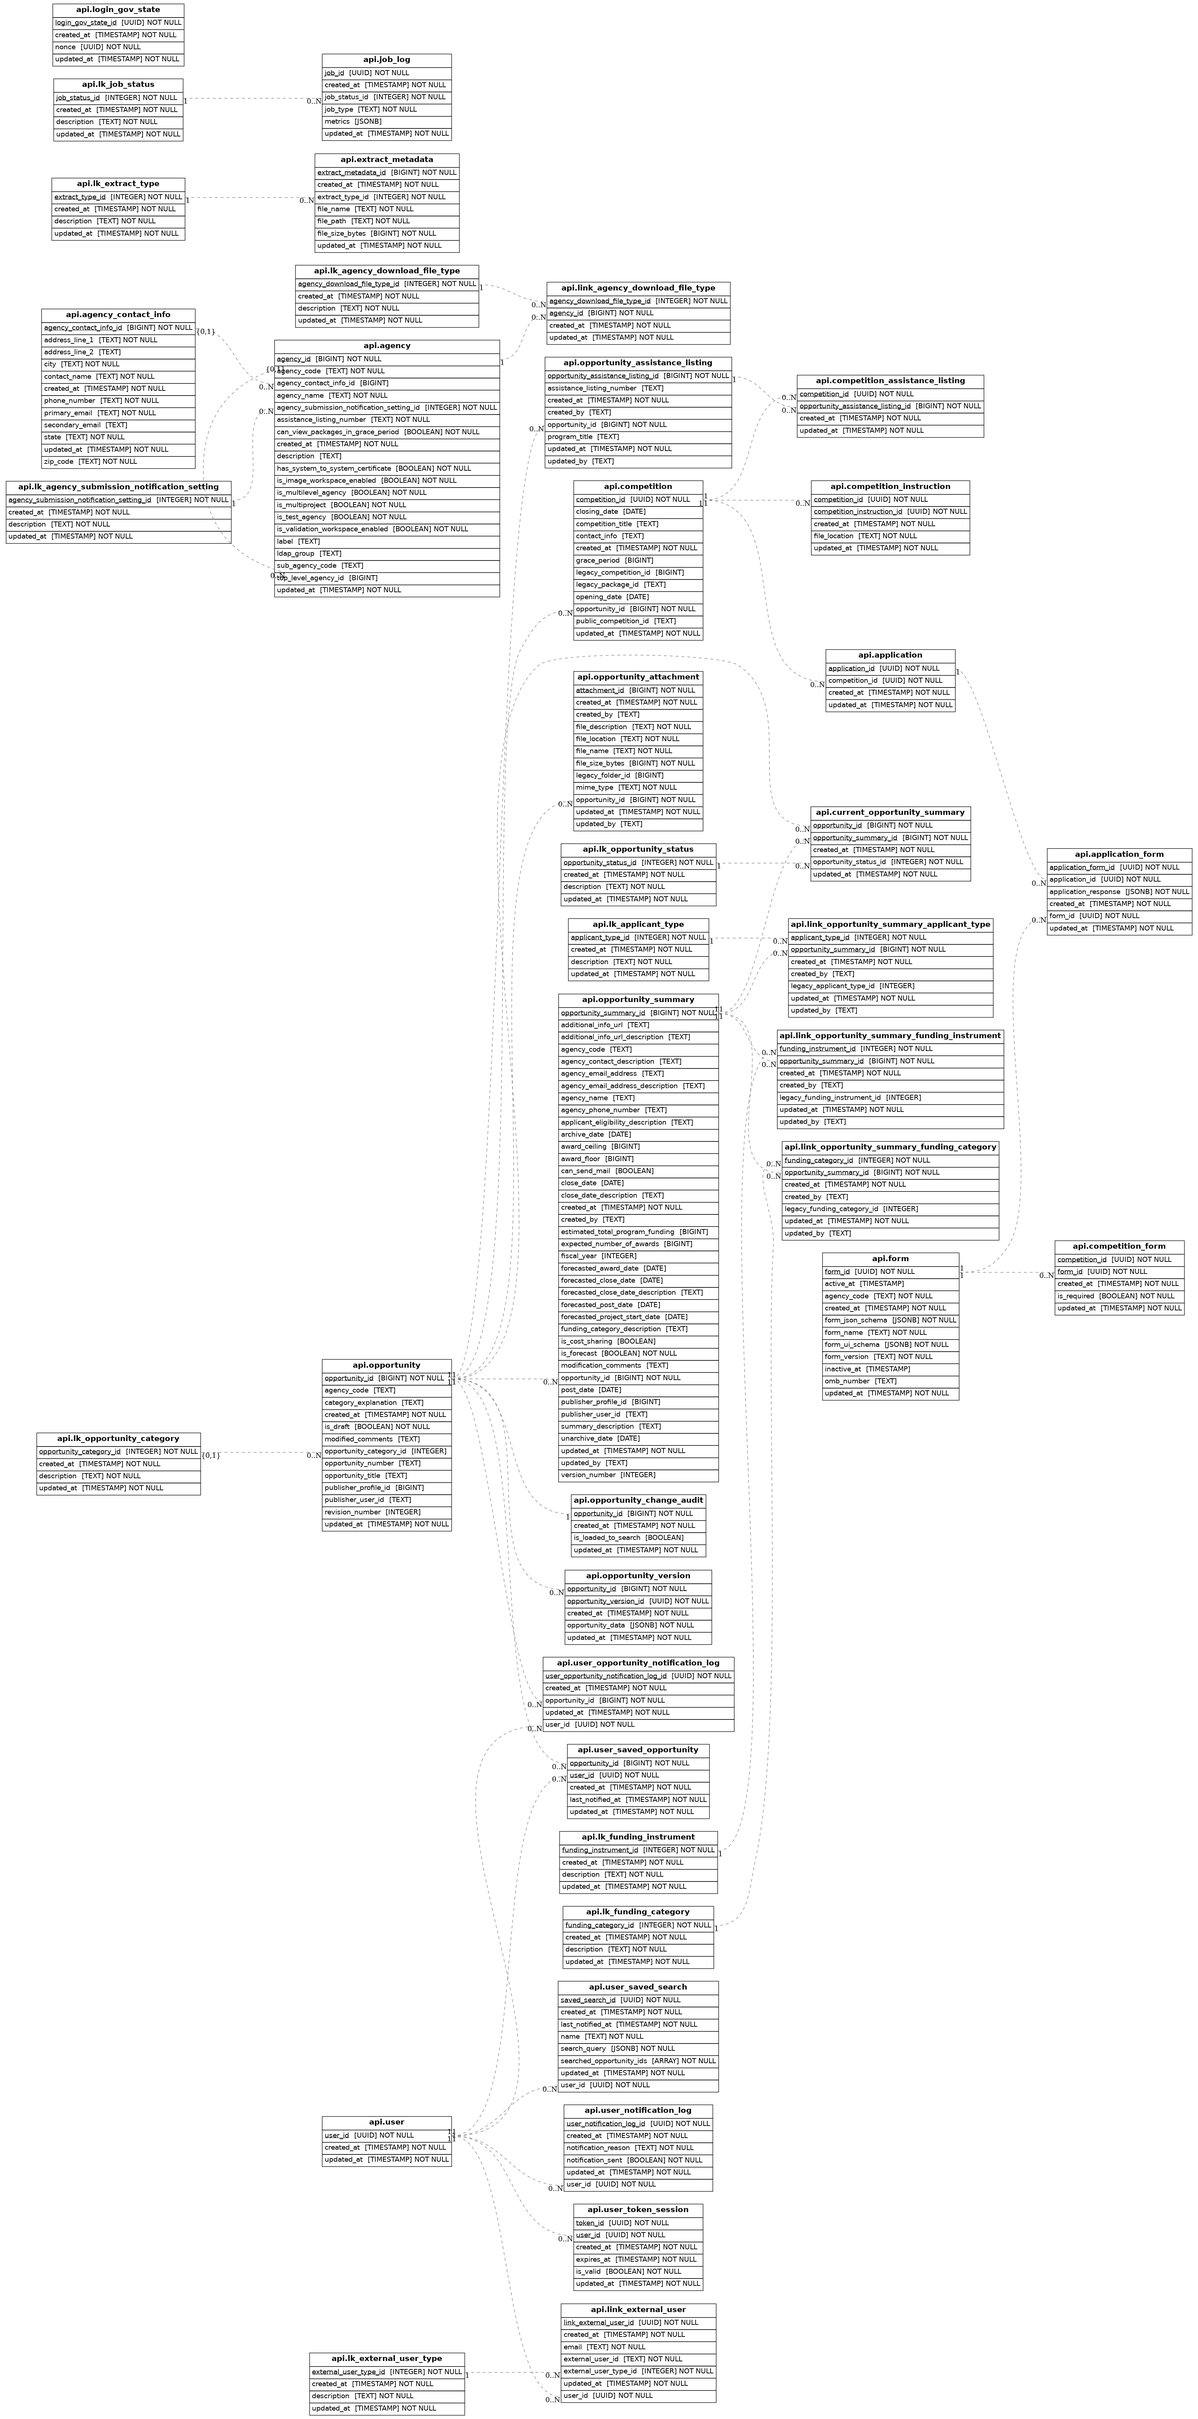
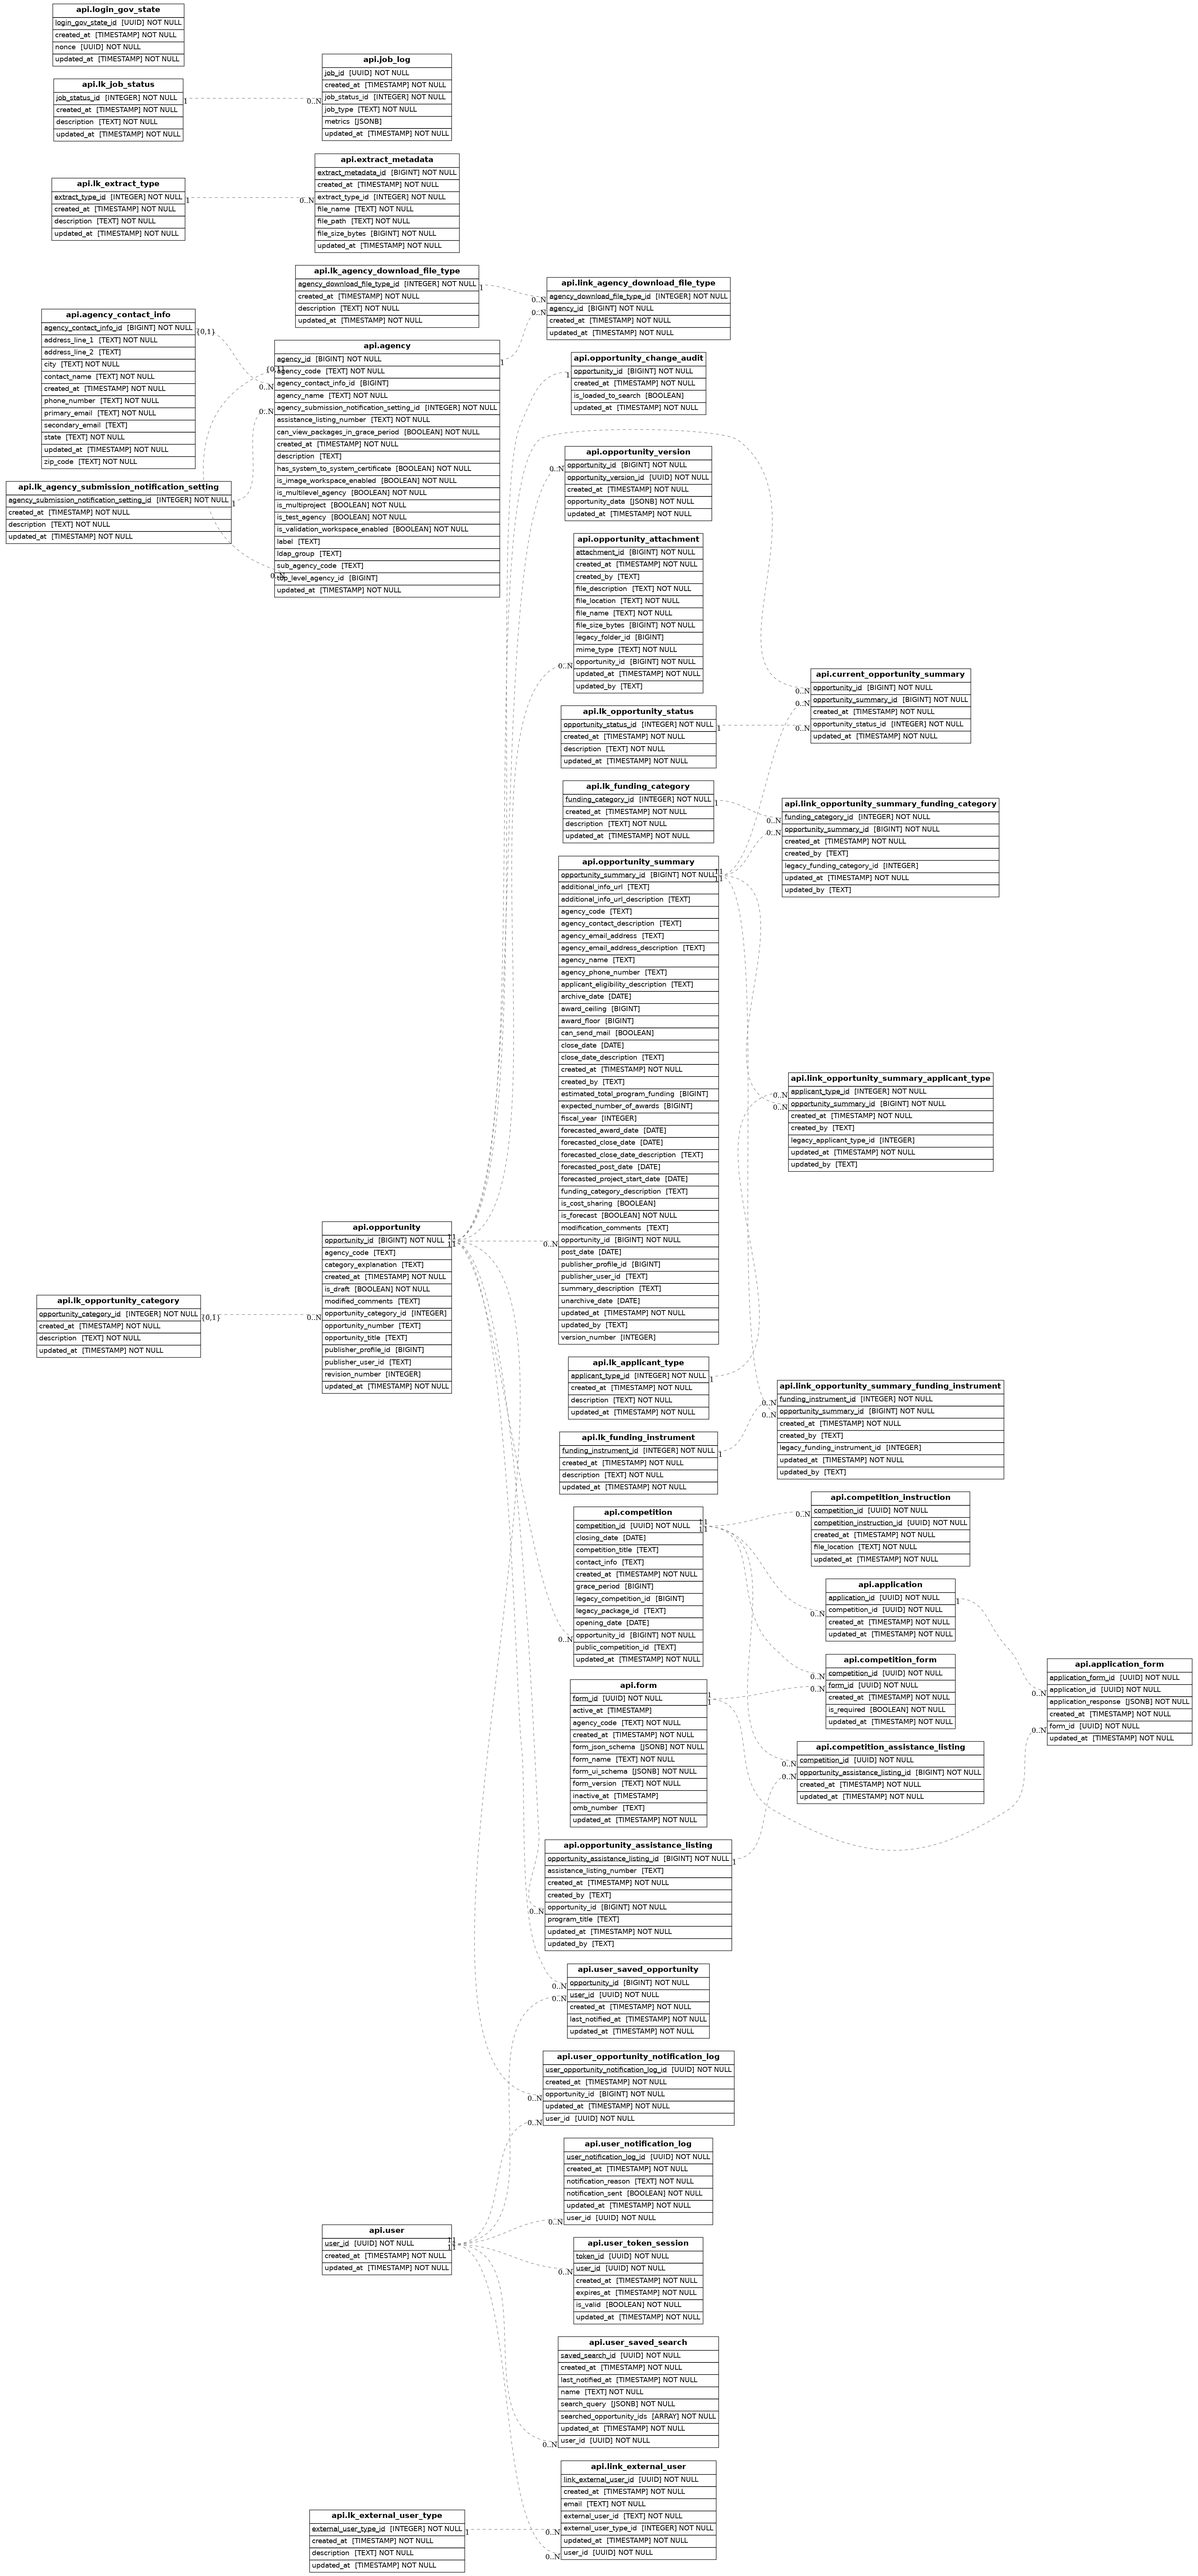
[Issue #4177] Add GET /competitions endpoint (#4198)
## Summary
Fixes #4177

### Time to review: __5 mins__

## Changes proposed
Adds a GET /competition endpoint

## Context for reviewers
This endpoint partially reuses the schema for forms as a competition has
a set of forms. Note that forms are stored in a way that makes us need
to structure the response object a bit oddly. Forms are their own thing,
but for each competition, we need to mark whether the form is required
or not - this value is stored separately from the forms as it is
competition-dependent.

## Additional information

You can setup a competition by running `make console` and then doing
`f.CompetitionFactory()`

Example response locally:
<img width="596" alt="Screenshot 2025-03-17 at 1 09 09 PM"
src="https://github.com/user-attachments/assets/de6b7338-5d41-4872-bf60-c000d137b9a9"
/>

Logs:
<img width="1439" alt="Screenshot 2025-03-17 at 1 10 08 PM"
src="https://github.com/user-attachments/assets/ea205575-1177-443f-a554-1600663fed8c"
/>

---------

diff --git a/api/tests/src/search/backend/test_load_opportunities_to_index.py b/api/tests/src/search/backend/test_load_opportunities_to_index.py
@@ -1,6 +1,7 @@
 import itertools
 import math
-from datetime import datetime, timedelta
+import uuid
+from datetime import timedelta
 
 import freezegun
 import pytest
@@ -221,9 +222,7 @@ class TestLoadOpportunitiesToIndexPartialRefresh(BaseTestClass):
         load_opportunities_to_index,
     ):
 
-        index_name = "partial-refresh-index-" + get_now_us_eastern_datetime().strftime(
-            "%Y-%m-%d_%H-%M-%S"
-        )
+        index_name = f"partial-refresh-index-{uuid.uuid4().int}"
         search_client.create_index(index_name)
         search_client.swap_alias_index(
             index_name,
@@ -380,15 +379,14 @@ class TestLoadOpportunitiesToIndexPartialRefresh(BaseTestClass):
         )
         assert len(remaining_queue) == 1
 
-    @freezegun.freeze_time(datetime.now() + timedelta(hours=2), tz_offset=0)
+    @freezegun.freeze_time(get_now_us_eastern_datetime() + timedelta(days=2), tz_offset=0)
     def test_batch_process_exceed_time_limit(
         self, db_session, search_client, load_opportunities_to_index, enable_factory_create
     ):
         OpportunityChangeAuditFactory.create()
 
-        index_name = "partial-refresh-index-" + get_now_us_eastern_datetime().strftime(
-            "%Y-%m-%d_%H-%M-%S"
-        )
+        index_name = f"partial-refresh-index-{uuid.uuid4().int}"
+
         search_client.create_index(index_name)
         search_client.swap_alias_index(
             index_name,

diff --git a/api/tests/src/api/competition_alpha/test_competition_route_get.py b/api/tests/src/api/competition_alpha/test_competition_route_get.py
@@ -1,0 +1,39 @@
+import uuid
+
+from tests.src.db.models.factories import CompetitionFactory
+
+
+def test_competition_get_200(client, api_auth_token, enable_factory_create):
+    competition = CompetitionFactory.create()
+
+    resp = client.get(
+        f"/alpha/competitions/{competition.competition_id}", headers={"X-Auth": api_auth_token}
+    )
+
+    assert resp.status_code == 200
+    response_competition = resp.get_json()["data"]
+
+    assert response_competition["competition_id"] == str(competition.competition_id)
+    assert response_competition["opportunity_id"] == competition.opportunity_id
+
+
+def test_competition_get_404_not_found(client, api_auth_token):
+    competition_id = uuid.uuid4()
+    resp = client.get(f"/alpha/competitions/{competition_id}", headers={"X-Auth": api_auth_token})
+
+    assert resp.status_code == 404
+    assert resp.get_json()["message"] == f"Could not find Competition with ID {competition_id}"
+
+
+def test_competition_get_401_unauthorized(client, api_auth_token, enable_factory_create):
+    competition = CompetitionFactory.create()
+
+    resp = client.get(
+        f"/alpha/competitions/{competition.competition_id}", headers={"X-Auth": "some-other-token"}
+    )
+
+    assert resp.status_code == 401
+    assert (
+        resp.get_json()["message"]
+        == "The server could not verify that you are authorized to access the URL requested"
+    )

diff --git a/api/src/db/models/competition_models.py b/api/src/db/models/competition_models.py
@@ -28,6 +28,14 @@ class Competition(ApiSchemaTable, TimestampMixin):
     grace_period: Mapped[int | None] = mapped_column(BigInteger)
     contact_info: Mapped[str | None]
 
+    competition_forms: Mapped[list["CompetitionForm"]] = relationship(
+        "CompetitionForm", uselist=True, back_populates="competition", cascade="all, delete-orphan"
+    )
+
+    applications: Mapped[list["Application"]] = relationship(
+        "Application", uselist=True, back_populates="competition", cascade="all, delete-orphan"
+    )
+
 
 class CompetitionInstruction(ApiSchemaTable, TimestampMixin):
     __tablename__ = "competition_instruction"
@@ -78,9 +86,14 @@ class Form(ApiSchemaTable, TimestampMixin):
 class CompetitionForm(ApiSchemaTable, TimestampMixin):
     __tablename__ = "competition_form"
 
-    competition_id: Mapped[uuid.UUID] = mapped_column(UUID, primary_key=True, default=uuid.uuid4)
+    competition_id: Mapped[uuid.UUID] = mapped_column(
+        UUID, ForeignKey(Competition.competition_id), primary_key=True
+    )
+    competition: Mapped[Competition] = relationship(Competition)
+
     form_id: Mapped[uuid.UUID] = mapped_column(UUID, ForeignKey(Form.form_id), primary_key=True)
     form: Mapped[Form] = relationship(Form)
+
     is_required: Mapped[bool]
 
 

diff --git a/api/src/api/competition_alpha/competition_route.py b/api/src/api/competition_alpha/competition_route.py
@@ -1,0 +1,27 @@
+import logging
+import uuid
+
+import src.adapters.db as db
+import src.adapters.db.flask_db as flask_db
+import src.api.competition_alpha.competition_schema as competition_schema
+import src.api.response as response
+from src.api.competition_alpha.competition_blueprint import competition_blueprint
+from src.auth.api_key_auth import api_key_auth
+from src.logging.flask_logger import add_extra_data_to_current_request_logs
+from src.services.competition_alpha.get_competition import get_competition
+
+logger = logging.getLogger(__name__)
+
+
+@competition_blueprint.get("/competitions/<uuid:competition_id>")
+@competition_blueprint.output(competition_schema.CompetitionResponseAlphaSchema())
+@competition_blueprint.auth_required(api_key_auth)
+@flask_db.with_db_session()
+def competition_get(db_session: db.Session, competition_id: uuid.UUID) -> response.ApiResponse:
+    add_extra_data_to_current_request_logs({"competition.competition_id": competition_id})
+    logger.info("GET /alpha/competitions/:competition_id")
+
+    with db_session.begin():
+        competition = get_competition(db_session, competition_id)
+
+    return response.ApiResponse(message="Success", data=competition)

diff --git a/api/tests/src/db/models/factories.py b/api/tests/src/db/models/factories.py
@@ -1848,6 +1848,12 @@ class CompetitionFactory(BaseFactory):
         lambda o: fake.date_time_between(start_date=o.created_at, end_date="-1y")
     )
 
+    competition_forms = factory.RelatedFactoryList(
+        "tests.src.db.models.factories.CompetitionFormFactory",
+        factory_related_name="competition",
+        size=lambda: random.randint(1, 2),
+    )
+
 
 class CompetitionInstructionFactory(BaseFactory):
     class Meta:
@@ -1908,9 +1914,11 @@ class CompetitionFormFactory(BaseFactory):
     class Meta:
         model = competition_models.CompetitionForm
 
-    competition_id = Generators.UuidObj
-    application_form = factory.SubFactory(ApplicationFormFactory)
-    form_id = factory.LazyAttribute(lambda o: o.application_form.form_id)
+    competition = factory.SubFactory(CompetitionFactory)
+    competition_id = factory.LazyAttribute(lambda o: o.competition.competition_id)
+
+    form = factory.SubFactory(FormFactory)
+    form_id = factory.LazyAttribute(lambda o: o.form.form_id)
 
     is_required = False
 

diff --git a/api/src/db/migrations/versions/2025_03_17_make_competition_id_foreign_key.py b/api/src/db/migrations/versions/2025_03_17_make_competition_id_foreign_key.py
@@ -1,0 +1,40 @@
+"""make competition id foreign key
+
+Revision ID: 98c3c10c1242
+Revises: 053ec3fb6069
+Create Date: 2025-03-17 12:30:44.410640
+
+"""
+
+from alembic import op
+
+# revision identifiers, used by Alembic.
+revision = "98c3c10c1242"
+down_revision = "053ec3fb6069"
+branch_labels = None
+depends_on = None
+
+
+def upgrade():
+    # ### commands auto generated by Alembic - please adjust! ###
+    op.create_foreign_key(
+        op.f("competition_form_competition_id_competition_fkey"),
+        "competition_form",
+        "competition",
+        ["competition_id"],
+        ["competition_id"],
+        source_schema="api",
+        referent_schema="api",
+    )
+    # ### end Alembic commands ###
+
+
+def downgrade():
+    # ### commands auto generated by Alembic - please adjust! ###
+    op.drop_constraint(
+        op.f("competition_form_competition_id_competition_fkey"),
+        "competition_form",
+        schema="api",
+        type_="foreignkey",
+    )
+    # ### end Alembic commands ###

diff --git a/api/src/services/competition_alpha/get_competition.py b/api/src/services/competition_alpha/get_competition.py
@@ -1,0 +1,24 @@
+import uuid
+
+from sqlalchemy import select
+from sqlalchemy.orm import selectinload
+
+import src.adapters.db as db
+from src.api.route_utils import raise_flask_error
+from src.db.models.competition_models import Competition, CompetitionForm
+
+
+def get_competition(db_session: db.Session, competition_id: uuid.UUID) -> Competition:
+
+    competition: Competition | None = db_session.execute(
+        select(Competition).where(Competition.competition_id == competition_id)
+        # Fetch the competition forms + actual form objects in the query
+        # We don't do "*" here as this endpoint doesn't need to fetch things
+        # like the opportunity or applications
+        .options(selectinload(Competition.competition_forms).selectinload(CompetitionForm.form))
+    ).scalar_one_or_none()
+
+    if competition is None:
+        raise_flask_error(404, message=f"Could not find Competition with ID {competition_id}")
+
+    return competition

diff --git a/api/src/api/competition_alpha/competition_schema.py b/api/src/api/competition_alpha/competition_schema.py
@@ -1,0 +1,26 @@
+from src.api.form_alpha.form_schema import FormAlphaSchema
+from src.api.schemas.extension import Schema, fields
+from src.api.schemas.response_schema import AbstractResponseSchema
+
+
+class CompetitionFormAlphaSchema(Schema):
+    is_required = fields.Boolean(
+        metadata={
+            "description": "Whether the form is required for all applications to the competition"
+        }
+    )
+    form = fields.Nested(FormAlphaSchema())
+
+
+class CompetitionAlphaSchema(Schema):
+    competition_id = fields.UUID(metadata={"description": "The competition ID"})
+
+    opportunity_id = fields.Integer(
+        metadata={"description": "The opportunity ID that the competition is associated with"}
+    )
+
+    competition_forms = fields.List(fields.Nested(CompetitionFormAlphaSchema()))
+
+
+class CompetitionResponseAlphaSchema(AbstractResponseSchema):
+    data = fields.Nested(CompetitionAlphaSchema())

diff --git a/api/tests/src/api/applications/test_application_routes.py b/api/tests/src/api/applications/test_application_routes.py
@@ -9,8 +9,9 @@ from tests.src.db.models.factories import CompetitionFactory, OpportunityFactory
 
 @pytest.fixture(autouse=True)
 def clear_competitions(db_session):
-    db_session.query(Application).delete()
-    db_session.query(Competition).delete()
+    competitions = db_session.query(Competition).all()
+    for competition in competitions:
+        db_session.delete(competition)
     db_session.commit()
 
 
